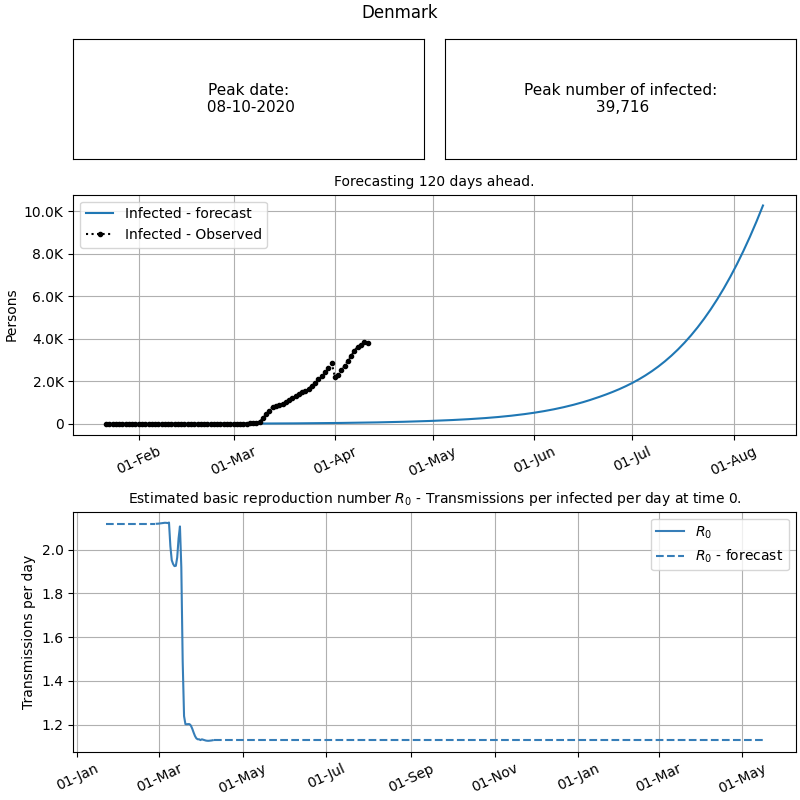
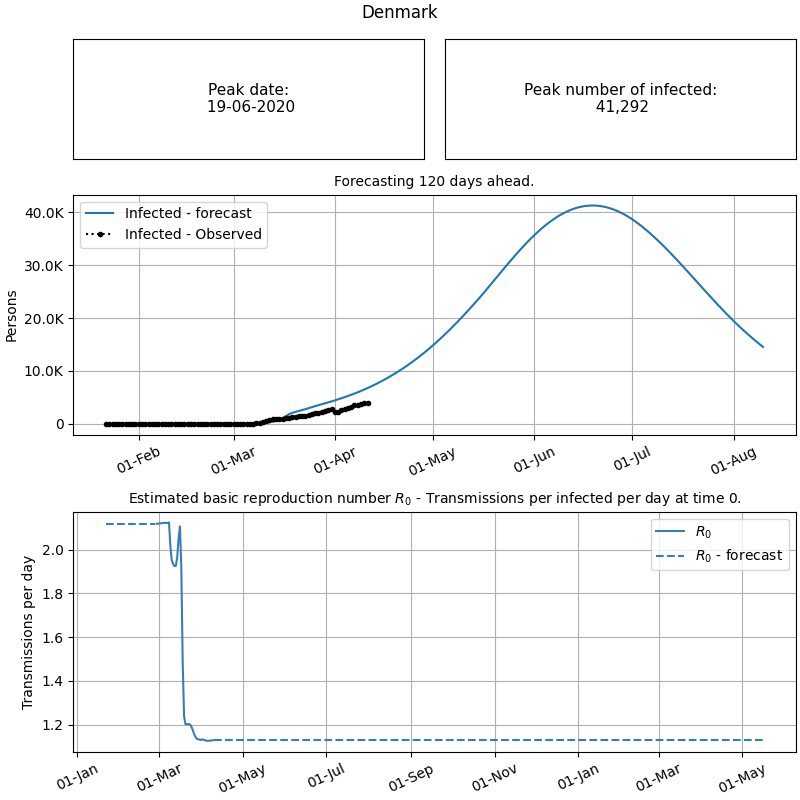
Deployed forecast 2020-04-12

diff --git a/scripts/make_new_forecast.py b/scripts/make_new_forecast.py
@@ -2,6 +2,7 @@ import logging
 import pandas as pd
 import os.path as op
 import pickle
+from collections import defaultdict
 from datetime import datetime
 from models import SIRtParams as Params
 from models import SIRt as Model
@@ -11,8 +12,9 @@ import scripts.config as config
 logger = logging.getLogger(__name__)
 
 N_DAYS_PREDICT = 400
-COUNTRIES = ['Denmark', 'Iran',  'Spain', 'Italy', 'Sweden']
-SEED = 42
+COUNTRIES = ['Denmark', 'Iran', 'Spain', 'Italy', 'Sweden']
+SEED = 43
+DEFAULT_PARAMS = Params(I0=1e-6, R0=1e-6)
 
 
 def main():
@@ -24,9 +26,10 @@ def main():
 
     df_all = pd.read_pickle(data_file)
 
-    start_params = {
-        # 'Denmark': Params(gamma=None, R0=1e-9, I0=1e-5, S0=None),
-    }
+    start_params = defaultdict(lambda: DEFAULT_PARAMS)
+    start_params['Denmark'] = Params(I0=1e-12, R0=1e-12)
+    start_params['Spain'] = Params(I0=1e-11, R0=1e-11)
+    start_params['Italy'] = Params(I0=1e-11, R0=1e-11)
 
     df_forecasts, forecast_info_collection = forecast_countries(
         df_all,

diff --git a/forecast/forecast_country.py b/forecast/forecast_country.py
@@ -31,7 +31,7 @@ def forecast_countries(df: pd.DataFrame,
             continue
         df_country = df[df[col_country] == country]
         if start_params_collection:
-            start_params = start_params_collection.get(country)
+            start_params = start_params_collection[country]
         else:
             start_params = None
         model = model_class(params=start_params, seed=seed)
